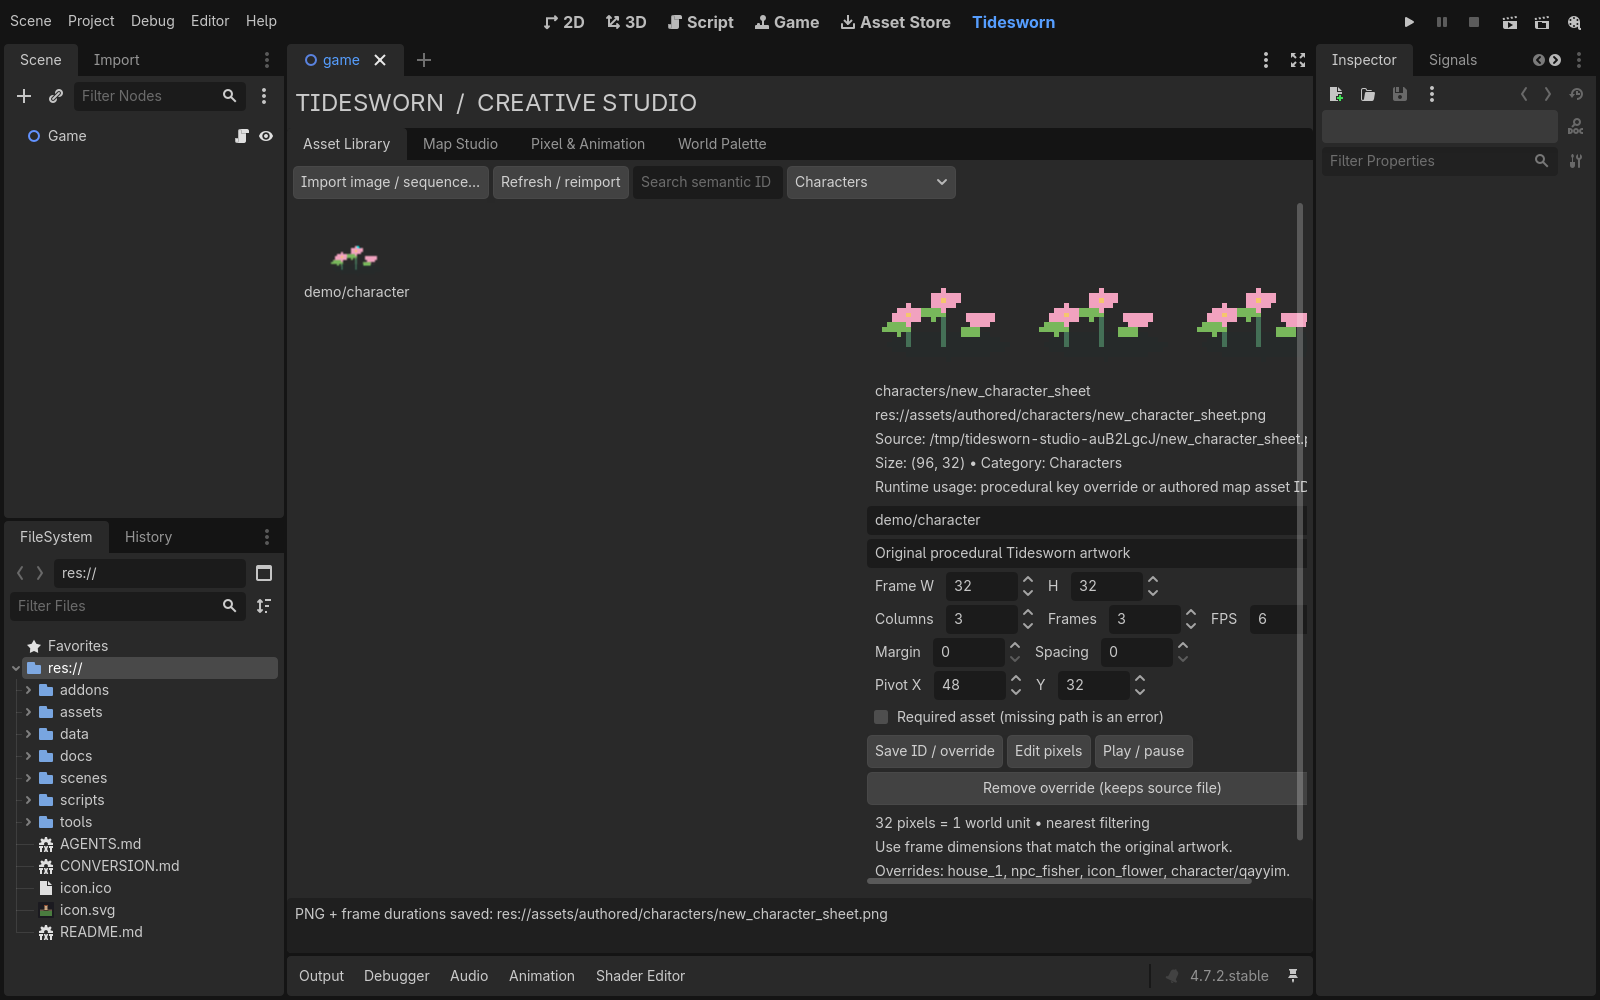
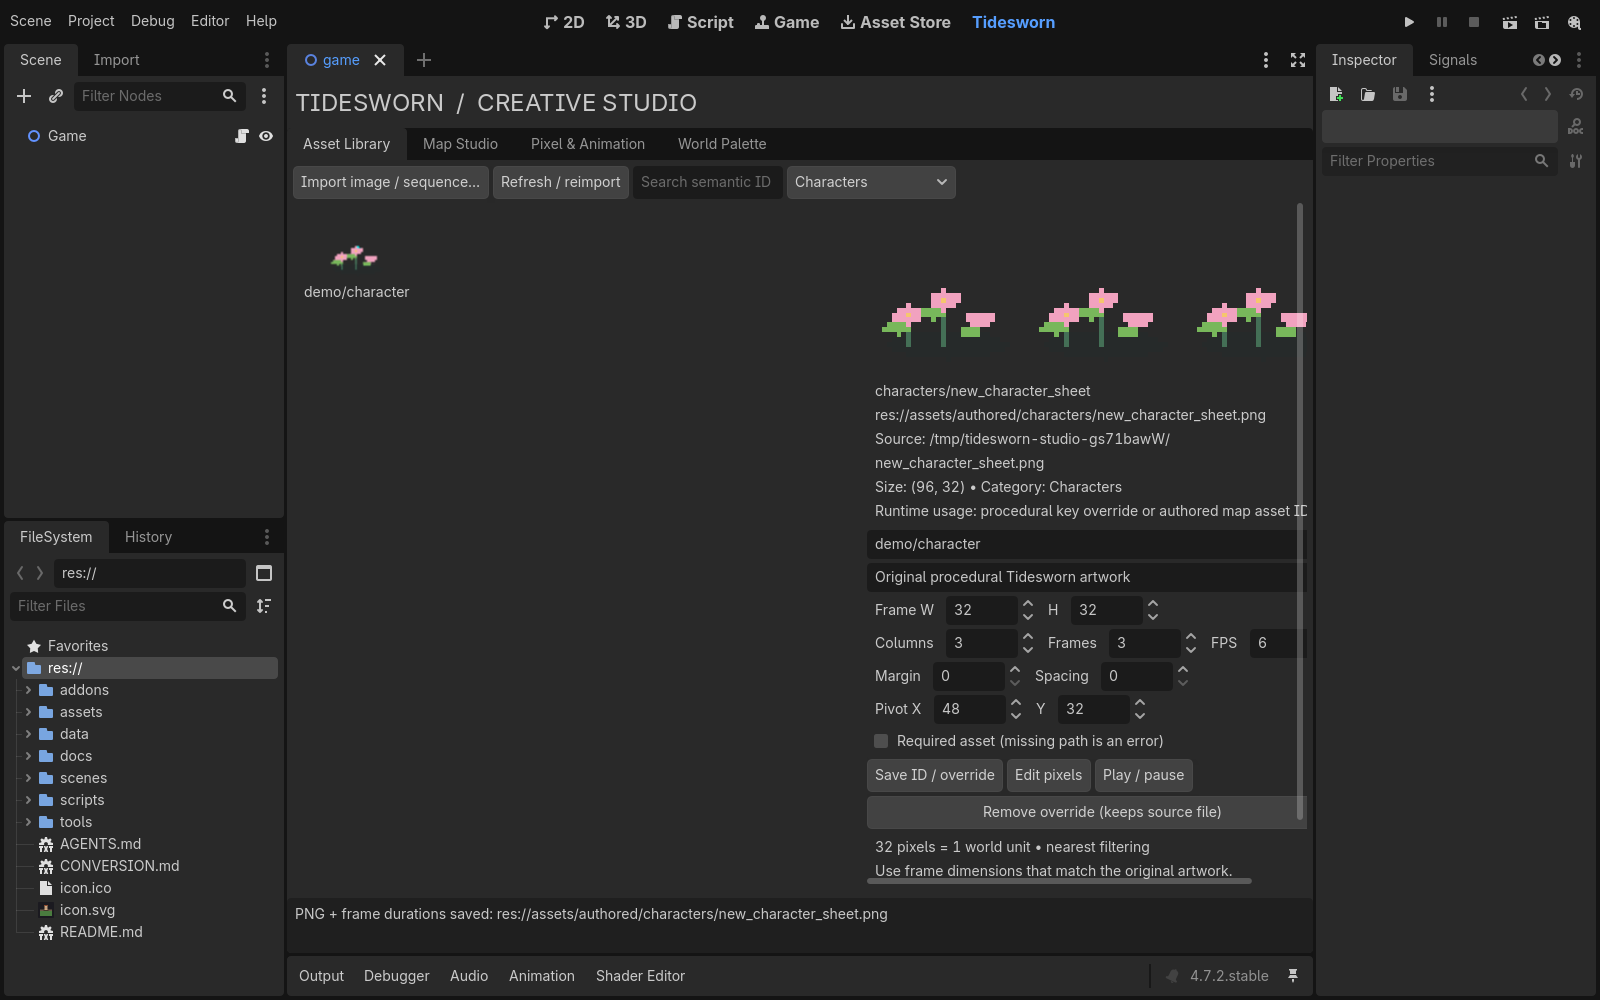
Keep shared art images intact during map previews and verify rendered proxies

Changed region(s): [[0.5312, 0.434, 0.8125, 0.899], [0.75, 0.62, 0.7812, 0.651]]

diff --git a/docs/CREATIVE_REVAMP_QA.md b/docs/CREATIVE_REVAMP_QA.md
@@ -13,7 +13,7 @@ saves were never deleted, restored or overwritten.
 | Final isolated gameplay gate | **438 checks, PASS**, no script errors/failures | `evidence/creative/logs/acceptance.log` |
 | Native graphical regressions | **63 checks, 0 failures** | `logs/native-ui.log` |
 | Fresh source import | PASS; plugin loaded without parse/missing-resource errors | `logs/clean-import.log` |
-| Native authoring workspace | **24 checks, 0 failures** | `logs/editor.log` |
+| Native authoring workspace | **27 checks, 0 failures** | `logs/editor.log` |
 | Editor output in a new runtime process | **PASS**: saved registry, edited PNG, authored map and live water collision | `logs/restart.log`, `studio/authored-runtime.png` |
 | Exported resource pack | **EXPORTED_RUNTIME PASS**: actual game/player and imported planter load with editor code excluded | `logs/export-runtime.log` |
 | Before/after tour | 53 fresh final captures; selected comparable views retained | `before/`, `after/` |
@@ -104,6 +104,12 @@ configuration; `_ready` and bounds guards now disable static-clip processing.
 Tool screenshot capture now explicitly draws instead of waiting indefinitely for
 an editor redraw signal. Floating-point SpinBox defaults are configured before
 setting values so footprints and scale are not silently rounded.
+
+The final pixel-level map review caught shared image data being resized while
+building object previews. Preview and foliage transforms now duplicate image data
+before editing it, and a rendered-canvas regression verifies the cottage remains
+visible after repeated painting. The map grid also uses world-cell spacing at the
+default zoom.
 
 ## Limits
 

diff --git a/docs/ACCEPTANCE_TESTS.md b/docs/ACCEPTANCE_TESTS.md
@@ -248,7 +248,7 @@ data-driven.
 
 `./tools/test_creative_editor.sh` is the authoring gate. It copies the entire source
 into a verified temporary root without `.godot`, imports afresh, launches the actual
-editor, tests 24 native-tool workflow checks, then starts a second runtime process
+editor, tests 27 native-tool workflow checks, then starts a second runtime process
 to verify saved assets, edited PNG colours, the authored map and water collision.
 It never imports test art into the normal project. A GUI display is provided with
 Xvfb. Review emitted PNGs as well as logs; passing model checks are not a visual

diff --git a/docs/CREATIVE_REVAMP_COMPLETION.md b/docs/CREATIVE_REVAMP_COMPLETION.md
@@ -69,7 +69,7 @@ Full workflows: [assets](ASSET_WORKFLOW.md), [maps](MAP_EDITOR_GUIDE.md),
 
 ## Verification and evidence
 
-**438 gameplay checks PASS; 63 native UI checks pass; 24 editor checks pass;
+**438 gameplay checks PASS; 63 native UI checks pass; 27 editor checks pass;
 separate editor-output restart PASS; exported resource-pack runtime PASS.**
 The suite adds 30 checks to the verified 408-check source baseline. A fresh
 source-copy import verifies the plugin without relying on the local `.godot`

diff --git a/AGENTS.md b/AGENTS.md
@@ -343,4 +343,4 @@ or EditorPlugin from gameplay scripts. The main workspace is **Tidesworn**.
 
 Workflows, current evidence and limits are in `docs/CREATIVE_REVAMP_COMPLETION.md`
 and `docs/CREATIVE_REVAMP_QA.md`. The verified gameplay tally is 438 checks; the
-native editor workflow has 24 checks plus a separate runtime restart verification.
+native editor workflow has 27 checks plus a separate runtime restart verification.
